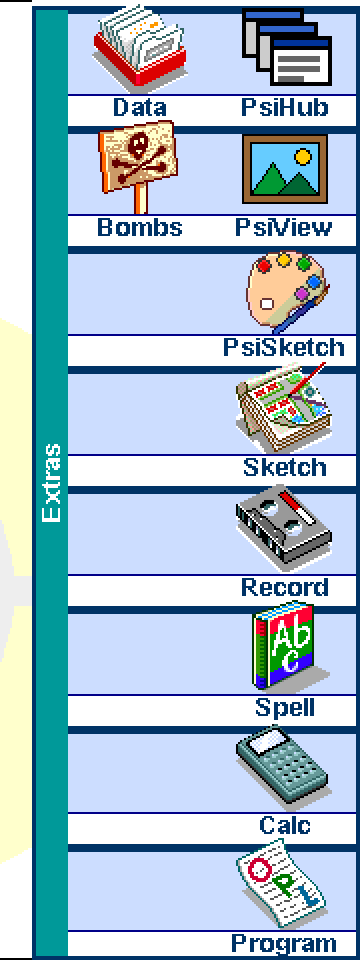
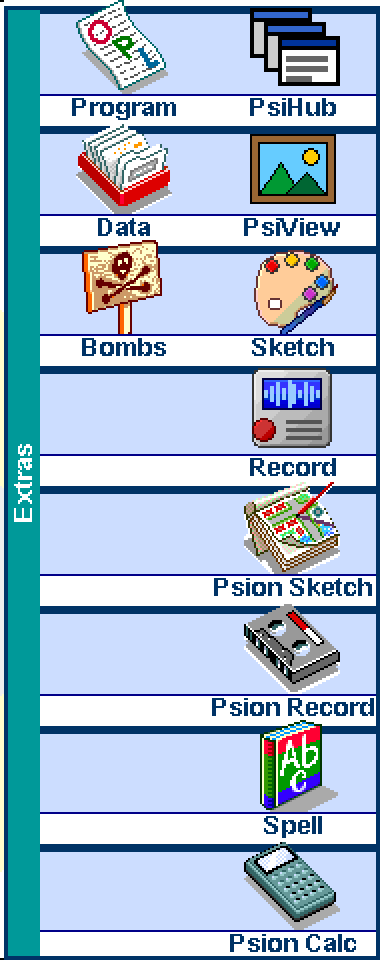
Office files with screenshots, the new Record, current names, PsiHub's search, PsiMail at work, saving as you go

diff --git a/index.html b/index.html
@@ -207,25 +207,27 @@
   <div class="wrap">
     <p class="eyebrow reveal">PsiHub</p>
     <h2 id="hub-title" class="reveal">Ctrl+Menu.<br>Then anything.</h2>
-    <p class="body-lg narrow-text reveal">A launcher over whatever you're doing. Open programs come first, most recent at the top, so Ctrl+Menu then Enter flips you back. Start typing and it searches programs, settings, files and commands at once, and learns what you use.</p>
+    <p class="body-lg narrow-text reveal">A launcher over whatever you're doing. Open programs come first, most recent at the top, so Ctrl+Menu then Enter flips you back. Start typing and it searches programs, settings, files and commands at once, and learns what you use. It knows other words for things, so wifi finds the network settings, and it forgives a letter typed wrong.</p>
     <figure class="frame wide md reveal">
-      <img src="img/hub-search.png" width="950" height="510" alt="PsiHub after typing psi, listing PsiSketch, PsiCalc, PsiView, PsiHub preferences and About PsiHub." loading="lazy" decoding="async">
+      <img src="img/hub-search.png" width="932" height="368" alt="PsiHub after typing wifi, listing the Dialling, Ethernet, Internet and Modems settings." loading="lazy" decoding="async">
     </figure>
     <ul class="chips reveal" aria-label="Examples of PsiHub's forgiving search">
       <li><kbd>wo</kbd> Word</li>
       <li><kbd>mail</kbd> PsiMail</li>
       <li><kbd>pw</kbd> PsiWeb</li>
       <li><kbd>agnd</kbd> Agenda</li>
+      <li><kbd>wifi</kbd> Internet settings</li>
+      <li><kbd>sheeet</kbd> Sheet</li>
       <li><kbd>term</kbd> Linux shell</li>
       <li><kbd>?</kbd> every command</li>
     </ul>
     <div class="grid two">
       <figure class="frame reveal">
-        <img src="img/hub-list.png" width="940" height="384" alt="PsiHub over Agenda, listing the open programs Agenda, Sheet, Word and PsiSketch with icons, Sheet ready to switch to." loading="lazy" decoding="async">
+        <img src="img/hub-list.png" width="932" height="428" alt="PsiHub listing the open programs Word, Sketch, Sheet, Agenda and Record with icons, Sketch ready to switch to." loading="lazy" decoding="async">
         <figcaption>Your open programs first, most recent at the top. Type to reach every program, every Control panel item, and commands for restart, switch off, brightness and a screenshot.</figcaption>
       </figure>
       <figure class="frame reveal">
-        <img src="img/name-tap.png" width="640" height="240" alt="Word with PsiHub opened by a tap on the toolbar's name box." loading="lazy" decoding="async">
+        <img src="img/name-tap.png" width="640" height="240" alt="Word with PsiHub opened by a tap on the toolbar's name box, listing Word, Sketch and Record." loading="lazy" decoding="async">
         <figcaption>Or tap the program's name on the toolbar. Tap again and it goes away.</figcaption>
       </figure>
     </div>
@@ -241,47 +243,57 @@
 
     <div class="feature">
       <div class="feature-text">
-        <h3 class="h3-lg reveal">PsiCalc</h3>
-        <p class="body reveal">Calc drew the Series 5's calculator in the middle of the screen, like it had come through the letterbox. PsiCalc is the same calculator laid out again for 640 by 480. The till roll, the memories, the Scientific view, the odd percentage key, even the way it writes numbers. Every key is Calc's own raised keycap, drawn larger with crisp edges.</p>
+        <h3 class="h3-lg reveal">Calc</h3>
+        <p class="body reveal">Calc drew the Series 5's calculator in the middle of the screen, like it had come through the letterbox. The new Calc is the same calculator laid out again for 640 by 480. The till roll, the memories, the Scientific view, the odd percentage key, even the way it writes numbers. Every key is Calc's own raised keycap, drawn larger with crisp edges.</p>
       </div>
       <figure class="ba reveal">
         <div class="ba-stage">
           <img class="ba-before" src="img/calc-desk-before.png" width="1280" height="960" alt="Psion's Calc in the middle of the screen with empty space around it." loading="lazy" decoding="async">
-          <img class="ba-after" src="img/psicalc-desk.png" width="1280" height="960" alt="PsiCalc filling the screen, with a till roll, large display and big keys." loading="lazy" decoding="async">
-          <span class="ba-label left">Calc</span><span class="ba-label right">PsiCalc</span>
+          <img class="ba-after" src="img/psicalc-desk.png" width="1280" height="960" alt="The new Calc filling the screen, with a till roll, large display and big keys." loading="lazy" decoding="async">
+          <span class="ba-label left">Psion</span><span class="ba-label right">Coda</span>
           <span class="ba-handle" aria-hidden="true"></span>
-          <input class="ba-range" type="range" min="0" max="100" value="50" aria-label="Drag to compare Calc and PsiCalc">
+          <input class="ba-range" type="range" min="0" max="100" value="50" aria-label="Drag to compare Psion's Calc and Coda's">
         </div>
       </figure>
     </div>
     <div class="grid two">
       <figure class="frame reveal">
-        <img src="img/psicalc-sci.png" width="1280" height="960" alt="PsiCalc's Scientific view showing 2+3×4 equals 14." loading="lazy" decoding="async">
+        <img src="img/psicalc-sci.png" width="1280" height="960" alt="Calc's Scientific view showing 2+3×4 equals 14." loading="lazy" decoding="async">
         <figcaption>The Scientific view.</figcaption>
       </figure>
       <figure class="frame reveal">
-        <img src="img/psicalc-sci-dark.png" width="1280" height="960" alt="PsiCalc's Scientific view in the Dark theme." loading="lazy" decoding="async">
+        <img src="img/psicalc-sci-dark.png" width="1280" height="960" alt="Calc's Scientific view in the Dark theme." loading="lazy" decoding="async">
         <figcaption>And in Dark.</figcaption>
       </figure>
     </div>
 
     <div class="feature reverse">
       <div class="feature-text">
-        <h3 class="h3-lg reveal">PsiSketch</h3>
-        <p class="body reveal">The screen shows 256 colours. Sketch let you pick 16. PsiSketch opens all of them, laid out like the colour wheel unrolled, with your recent colours, the colour's name and a picker that takes a colour straight off your drawing. The drawing uses the whole screen, zooms to eight times, and exports to PNG. Its files are Sketch files, both ways.</p>
+        <h3 class="h3-lg reveal">Sketch</h3>
+        <p class="body reveal">The screen shows 256 colours. Psion's Sketch let you pick 16. The new Sketch opens all of them, laid out like the colour wheel unrolled, with your recent colours, the colour's name and a picker that takes a colour straight off your drawing. The drawing uses the whole screen, zooms to eight times, undoes 16 steps, prints with a preview and exports to PNG. Word's Insert Sketch opens it, copy and paste works with Psion's Sketch, and its files are Sketch files, both ways.</p>
       </div>
       <figure class="ba reveal">
         <div class="ba-stage">
           <img class="ba-before" src="img/sketch-colour-before.png" width="1280" height="960" alt="Sketch's Colour tool: a single list of 16 named colours." loading="lazy" decoding="async">
-          <img class="ba-after" src="img/psisketch-colour.png" width="1280" height="960" alt="PsiSketch's Colour tool: a chart of every colour by hue and lightness, greys, recent colours and Spring green chosen." loading="lazy" decoding="async">
-          <span class="ba-label left">Sketch</span><span class="ba-label right">PsiSketch</span>
+          <img class="ba-after" src="img/psisketch-colour.png" width="1280" height="960" alt="The new Sketch's Colour tool: a chart of every colour by hue and lightness, greys, recent colours and Spring green chosen." loading="lazy" decoding="async">
+          <span class="ba-label left">Psion</span><span class="ba-label right">Coda</span>
           <span class="ba-handle" aria-hidden="true"></span>
-          <input class="ba-range" type="range" min="0" max="100" value="50" aria-label="Drag to compare Sketch's and PsiSketch's colour tool">
+          <input class="ba-range" type="range" min="0" max="100" value="50" aria-label="Drag to compare Psion's and Coda's Sketch colour tool">
         </div>
       </figure>
     </div>
 
     <div class="feature">
+      <div class="feature-text">
+        <h3 class="h3-lg reveal">Record</h3>
+        <p class="body reveal">Record told you how far through a recording you were, and nothing else. The new Record draws the sound as a waveform, so you can see the gaps. Select part of it to play, erase or crop to, skip 5 or 30 seconds at a time, find any recording in a list, and bring WAV files in and out. Record's buttons, menus, keys and files are all still there.</p>
+      </div>
+      <figure class="frame reveal">
+        <img src="img/record-new.png" width="1280" height="960" alt="The new Record filling the screen: a waveform in the blue bar with one second of it selected, Selected 0:01 to 0:02, above Record's five big buttons." loading="lazy" decoding="async">
+      </figure>
+    </div>
+
+    <div class="feature reverse">
       <div class="feature-text">
         <h3 class="h3-lg reveal">PsiView</h3>
         <p class="body reveal">A picture viewer for PNG, JPEG, GIF and BMP. Tap a picture on the System screen and it opens, fitted to the screen, ready to zoom, pan and step through the folder. Each photo gets its own 256 colours, picked for that photo.</p>
@@ -298,15 +310,13 @@
     </div>
 
     <div class="note-card reveal">
-      <img src="img/programs.png" width="960" height="332" alt="Control panel, Programs: choose Psion's Calc or PsiCalc, and Psion's Sketch or PsiSketch." loading="lazy" decoding="async">
-      <p>Prefer Psion's originals? Control panel, Programs puts them back on the icons. The other one waits on the Extras bar.</p>
+      <img src="img/programs.png" width="1084" height="484" alt="Control panel, Programs: which calculator, sketch program and sound recorder the icons open, and a tick box to save Word and Sheet files every 5 minutes." loading="lazy" decoding="async">
+      <p>Prefer Psion's originals? Control panel, Programs puts them back on the icons. The other one waits on the Extras bar, as Psion Calc, Psion Sketch or Psion Record.</p>
     </div>
   </div>
 </section>
 
-<!-- OFFICE FORMATS
-     Typographic for now. When screenshots land, uncomment the
-     .office-shots figure at the end of this block and point it at them. -->
+<!-- OFFICE FORMATS -->
 <section class="office light alt" id="office" aria-labelledby="office-title">
   <div class="wrap">
     <p class="eyebrow reveal">Office formats</p>
@@ -316,23 +326,31 @@
       <div class="format-col">
         <h3>Word</h3>
         <ul class="ext-list">
-          <li>.docx</li><li>.doc</li><li>.rtf</li><li>.txt</li>
+          <li>.docx</li><li>.doc</li><li>.rtf</li><li>.odt</li><li>.txt</li>
         </ul>
       </div>
       <div class="format-col">
         <h3>Sheet</h3>
         <ul class="ext-list">
-          <li>.xlsx</li><li>.xls</li><li>.csv</li>
+          <li>.xlsx</li><li>.xls</li><li>.ods</li><li>.csv</li>
         </ul>
       </div>
     </div>
     <p class="body narrow-text center-text reveal">Tap a .docx or .xlsx on the System screen and it opens straight in Word or Sheet. The formats are there in Save as, too.</p>
-    <!--
-    <figure class="frame wide reveal office-shots">
-      <img src="img/office-word-docx.png" width="1280" height="960" alt="Word with a .docx document open." loading="lazy" decoding="async">
-      <figcaption>A .docx, opened in Word.</figcaption>
+    <div class="grid two office-shots">
+      <figure class="frame reveal">
+        <img src="img/office-word-docx.png" width="1280" height="960" alt="Word with a .docx open: the heading Walking weekend in the Lakes in blue, bold and italic text, a bulleted list, Calibri on the toolband." loading="lazy" decoding="async">
+        <figcaption>A .docx, opened in Word, headings, bullets and colours intact.</figcaption>
+      </figure>
+      <figure class="frame reveal">
+        <img src="img/office-sheet-xlsx.png" width="1280" height="960" alt="Sheet with an .xlsx open: a trip budget with people, cost each and totals worked out by formulas." loading="lazy" decoding="async">
+        <figcaption>An .xlsx in Sheet, formulas and all.</figcaption>
+      </figure>
+    </div>
+    <figure class="frame wide md reveal">
+      <img src="img/office-saveas.png" width="1168" height="364" alt="Word's Save as dialog with a new File type line set to Word 2007 and later (.docx)." loading="lazy" decoding="async">
+      <figcaption>Save as keeps the file's own type, or picks another. Pictures in a document come in as Sketch objects.</figcaption>
     </figure>
-    -->
   </div>
 </section>
 <!-- /OFFICE FORMATS -->
@@ -352,9 +370,9 @@
         <button role="tab" aria-selected="false" data-b="img/planner-before.png" data-a="img/planner-after.png" data-w="660" data-h="440" data-alt-b="Agenda's Year planner with past days hatched in diagonal lines." data-alt-a="The Year planner with past days in plain light grey." data-cap="Agenda's Year planner. Past days in plain grey, not a dense hatch.">Year planner</button>
         <button role="tab" aria-selected="false" data-b="img/toolband-before.png" data-a="img/toolband-after.png" data-w="1140" data-h="100" data-alt-b="Word's toolband at 25 pixels high." data-alt-a="Word's toolband a third taller, at 33 pixels." data-cap="Word and Sheet's toolband, a third taller and easier to hit with the pen. The font name isn't cut short any more.">Toolband</button>
         <button role="tab" aria-selected="false" data-b="img/contacts-before.png" data-a="img/contacts-after.png" data-w="668" data-h="520" data-alt-b="Contacts zoomed in with labels cut short." data-alt-a="Contacts zoomed in with every label shown in full." data-cap="Contacts shows every label in full, at every zoom.">Contacts</button>
-        <button role="tab" aria-selected="false" data-b="img/extras-before.png" data-a="img/extras-after.png" data-w="360" data-h="960" data-alt-b="The Extras bar with names drawn across the icons." data-alt-a="The Extras bar with taller cells, each icon above its name." data-cap="The Extras bar: each icon sits above its name instead of under it.">Extras bar</button>
+        <button role="tab" aria-selected="false" data-b="img/extras-before.png" data-a="img/extras-after.png" data-w="380" data-h="960" data-alt-b="The Extras bar with names drawn across the icons." data-alt-a="The Extras bar with taller, wider cells, each icon above its name: Sketch, Record, Psion Sketch, Psion Record, Spell and Psion Calc." data-cap="The Extras bar: each icon sits above its name, in cells wide enough for Psion Record.">Extras bar</button>
         <button role="tab" aria-selected="false" data-b="img/graph-before.png" data-a="img/graph-after.png" data-w="1280" data-h="960" data-alt-b="A new graph in Sheet with light grey bars." data-alt-a="A new graph in Sheet with proper blue bars." data-cap="Sheet's new graphs start in a proper blue.">Sheet graphs</button>
-        <button role="tab" aria-selected="false" data-b="img/sketch-before.png" data-a="img/psisketch.png" data-w="1280" data-h="960" data-alt-b="Psion's Sketch with a smaller picture inside a grey frame." data-alt-a="PsiSketch drawing across the whole screen beside the toolbar." data-cap="PsiSketch draws across the whole screen beside the toolbar, with Sketch's own toolbar and tools.">Sketch</button>
+        <button role="tab" aria-selected="false" data-b="img/sketch-before.png" data-a="img/psisketch.png" data-w="1280" data-h="960" data-alt-b="Psion's Sketch with a smaller picture inside a grey frame." data-alt-a="The new Sketch drawing across the whole screen beside the toolbar." data-cap="The new Sketch draws across the whole screen beside the toolbar, with Sketch's own toolbar and tools.">Sketch</button>
         <button role="tab" aria-selected="false" data-b="img/anagrams-before.png" data-a="img/anagrams-after.png" data-w="1140" data-h="560" data-alt-b="Spell's anagrams in a small font." data-alt-a="Spell's anagrams in a larger font, including blog." data-cap="Spell's anagrams. The letters lobg now make blog.">Anagrams</button>
         <button role="tab" aria-selected="false" data-b="img/cp-dark-before.png" data-a="img/cp-dark-after.png" data-w="1016" data-h="754" data-alt-b="The Control panel on Dark with every icon on a white tile." data-alt-a="The Control panel on Dark with the icons on a clean white ground." data-cap="The Control panel on Dark. No more white tiles on charcoal.">Dark Control panel</button>
         <button role="tab" aria-selected="false" data-b="img/findbar-before.png" data-a="img/findbar-after.png" data-w="660" data-h="80" data-alt-b="Contacts' Find bar in startling cyan." data-alt-a="Contacts' Find bar in pale blue." data-cap="The Find bar in Data and Contacts, in the pale blue Psion asked for.">Find bar</button>
@@ -382,9 +400,9 @@
     <p class="body-lg narrow-text reveal">Psion's Email, Opera and Comms terminal couldn't cope with the modern internet. Coda replaces them with programs that can, and the toolbar's Email and web icons open them.</p>
     <div class="grid three">
       <article class="card dark-card reveal">
-        <img src="img/psimail.png" width="640" height="480" alt="PsiMail asking for a mail account on first start." loading="lazy" decoding="async">
+        <img src="img/psimail.png" width="640" height="480" alt="PsiMail on the netBook: folders on the left, the inbox list in colour, and a preview of the chosen message under it with a coloured link and quoted replies." loading="lazy" decoding="async">
         <h3>PsiMail</h3>
-        <p>IMAP and SMTP over TLS, with the server's certificate checked. A CalDAV calendar kept in step with Agenda.</p>
+        <p>IMAP and SMTP over TLS, with the server's certificate checked. A CalDAV calendar kept in step with Agenda. On the netBook, a preview of each message under the list, in colour.</p>
         <a class="link-arrow" href="https://github.com/danieledge/psimail">PsiMail on GitHub</a>
       </article>
       <article class="card dark-card reveal">
@@ -407,7 +425,7 @@
         <p>The clock set from a time server once a day, and summer time switched on the right dates for every city in Time. It can find your time zone too, if you ask.</p>
       </article>
       <article class="card dark-card reveal">
-        <img src="img/serialboost.png" width="1120" height="400" alt="Control panel, SerialBoost: Serial port at double speed, ticked." loading="lazy" decoding="async">
+        <img src="img/serialboost.png" width="900" height="320" alt="Control panel, Serial speed: Serial port at double speed, ticked." loading="lazy" decoding="async">
         <h3>SerialBoost. Twice the speed.</h3>
         <p>Psion stopped the serial port at 115,200 bps. The chip can do 230,400. Any program that asks for the old top speed gets double, with no changes to the program. On as standard. It's the netBook version of <a href="https://github.com/danieledge/psiboost">PsiBoost</a>.</p>
       </article>
@@ -524,8 +542,8 @@
         <figcaption>Sketch, redrawn on the pixel grid with no dithering.</figcaption>
       </figure>
       <figure class="frame reveal">
-        <img src="img/icons-psi.png" width="312" height="236" alt="Colour icons on the Extras bar for PsiTerm, PsiHub, PsiView and PsiSketch." loading="lazy" decoding="async" class="mid">
-        <figcaption>Colour icons for the Psi programs.</figcaption>
+        <img src="img/icons-psi.png" width="360" height="240" alt="Colour icons on the Extras bar for PsiHub, PsiView, Sketch and Record." loading="lazy" decoding="async" class="mid">
+        <figcaption>Colour icons for Coda's programs.</figcaption>
       </figure>
     </div>
     <div class="grid three">
@@ -552,7 +570,7 @@
       <div>
         <p class="eyebrow reveal">The Control panel</p>
         <h2 id="control-title" class="reveal">Every setting.<br>In its place.</h2>
-        <p class="body-lg reveal">Coda's settings live where Psion's do, grouped together and tidy.</p>
+        <p class="body-lg reveal">Coda's settings live where Psion's do, grouped by kind: Psion's own, then the network, then the look, then programs.</p>
         <ul class="tick-list reveal">
           <li><strong>Themes</strong> with a preview, and Psion's exact colours</li>
           <li><strong>Icons</strong>, Psion's or new</li>
@@ -560,12 +578,12 @@
           <li><strong>Toolbar</strong>, battery, memory and brightness</li>
           <li><strong>Screenshot</strong>, the key that saves the screen</li>
           <li><strong>Internet time</strong>, the clock and summer time</li>
-          <li><strong>SerialBoost</strong>, the serial port at double speed</li>
-          <li><strong>Programs</strong>, Psion's or Coda's Calc and Sketch</li>
+          <li><strong>Serial speed</strong>, the serial port at double speed</li>
+          <li><strong>Programs</strong>, Psion's or Coda's Calc, Sketch and Record, and saving as you go</li>
         </ul>
       </div>
       <figure class="frame reveal">
-        <img src="img/control-panel.png" width="1030" height="760" alt="Coda's Control panel with Time and date, Switch on and off, Themes, Screenshot, Internet, Screen, Sound, Icons, Internet time, Add and remove, Printer, International, Programs, SerialBoost, Password, Applications, Text, Ethernet, Keyboard, Dialling, Toolbar and Modems." loading="lazy" decoding="async">
+        <img src="img/control-panel.png" width="1040" height="770" alt="Coda's Control panel in columns: Time and date, Screen, Printer, Password, Keyboard; Switch on and off, Sound, International, Extras bar, Dialling; Internet, Modems, Ethernet, Internet time, Serial speed; Themes, Icons, Text, Toolbar, Screenshot; Programs, Add and remove." loading="lazy" decoding="async">
       </figure>
     </div>
   </div>
@@ -578,8 +596,9 @@
     <h2 id="startup-title" class="reveal">Ready the way<br>you'd set it up.</h2>
     <div class="grid two">
       <div>
-        <p class="body-lg reveal">On a fresh start, Coda prepares itself in plain view: PC link and key clicks off, SerialBoost and Internet time on, the date as 15/11/2026, a 24 hour clock and metric units with miles for long distances, as in the UK.</p>
+        <p class="body-lg reveal">On a fresh start, Coda prepares itself in plain view: PC link and key clicks off, Serial speed and Internet time on, the date as 15/11/2026, a 24 hour clock and metric units with miles for long distances, as in the UK.</p>
         <p class="body reveal">Behind the scenes, a small program called PsiStart paints the theme, runs the timers and handles a warm restart that keeps your C: disk. Programs Psion started at boot are closed again once they've made their documents, giving back about 1.4 MB of memory.</p>
+        <p class="body reveal">A short Welcome file waits in Documents, saying what's new and where to find it. And Word and Sheet save your changes every 5 minutes, so a flat battery doesn't take your afternoon with it.</p>
       </div>
       <div class="stack">
         <figure class="frame reveal">
@@ -629,8 +648,10 @@
             <tr><td>Opera, Web</td><td>PsiWeb</td></tr>
             <tr><td>Comms</td><td>PsiTerm</td></tr>
             <tr><td>nFTP</td><td>PsiTerm's SFTP</td></tr>
-            <tr><td>Calc</td><td>PsiCalc, with Calc on Extras</td></tr>
-            <tr><td>Sketch</td><td>PsiSketch, with Sketch on Extras</td></tr>
+            <tr><td>Calc</td><td>Calc, with Psion Calc on Extras</td></tr>
+            <tr><td>Sketch</td><td>Sketch, with Psion Sketch on Extras</td></tr>
+            <tr><td>Record</td><td>Record, with Psion Record on Extras</td></tr>
+            <tr><td>Word's .doc viewer</td><td>Word opens .doc itself</td></tr>
           </tbody>
         </table>
         <h3 class="h3-sm">Gone</h3>
@@ -638,7 +659,7 @@
           <li>Opera and Java, about 4.7 MB</li>
           <li>The Fax editor and viewer, with their engine and printer driver</li>
           <li>NetStatRF, for a wireless card the netBook never had</li>
-          <li>The example files and "Welcome to netBook"</li>
+          <li>The example files and "Welcome to netBook", with a short Welcome file of Coda's in their place</li>
         </ul>
       </div>
       <figure class="ba reveal">
@@ -675,6 +696,9 @@
       <li><strong>PsiMail and PsiWeb</strong>Named where settings still said Email and Opera.</li>
       <li><strong>Fax lines</strong>Hidden from the modem settings.</li>
       <li><strong>Six zoom steps</strong>In Word, with 1250 and 2000 added.</li>
+      <li><strong>12 point</strong>New Word files, at a zoom you can read.</li>
+      <li><strong>Saved</strong>Word and Sheet save changes every 5 minutes.</li>
+      <li><strong>Previous</strong>In full on PsiView's toolbar.</li>
       <li><strong>Times New Roman</strong>In full on Word's toolband.</li>
       <li><strong>PsiView's toolbar</strong>The same name box and battery line as every other program.</li>
       <li><strong>Tick boxes</strong>For settings that are simply on or off.</li>
